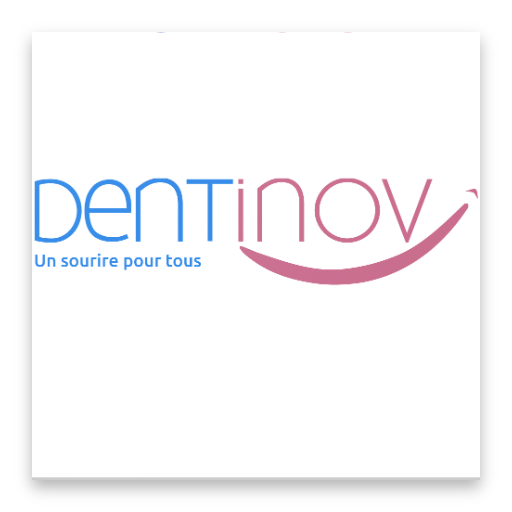
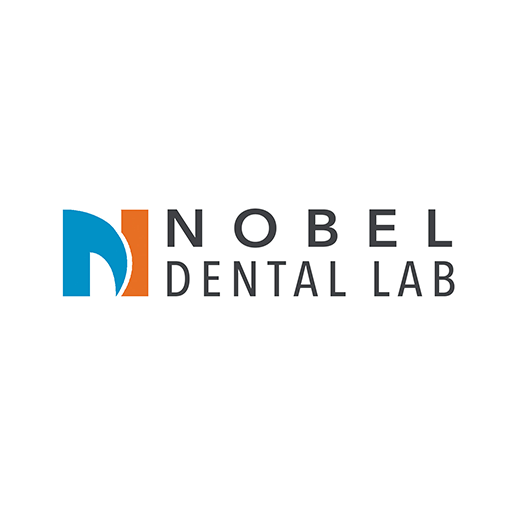
Changement d'icones

Changed region(s): [[0.0312, 0.0938, 0.9688, 0.9688]]

diff --git a/src/api/dentinov.js b/src/api/dentinov.js
@@ -39,7 +39,7 @@ class Dentinov extends Component {
             </Button>
           </Left>
           <Body>
-            <Title>Dentinov Images</Title>
+            <Title>Nobel Dental Lab Images</Title>
           </Body>
           <Right>
             <Badge>
